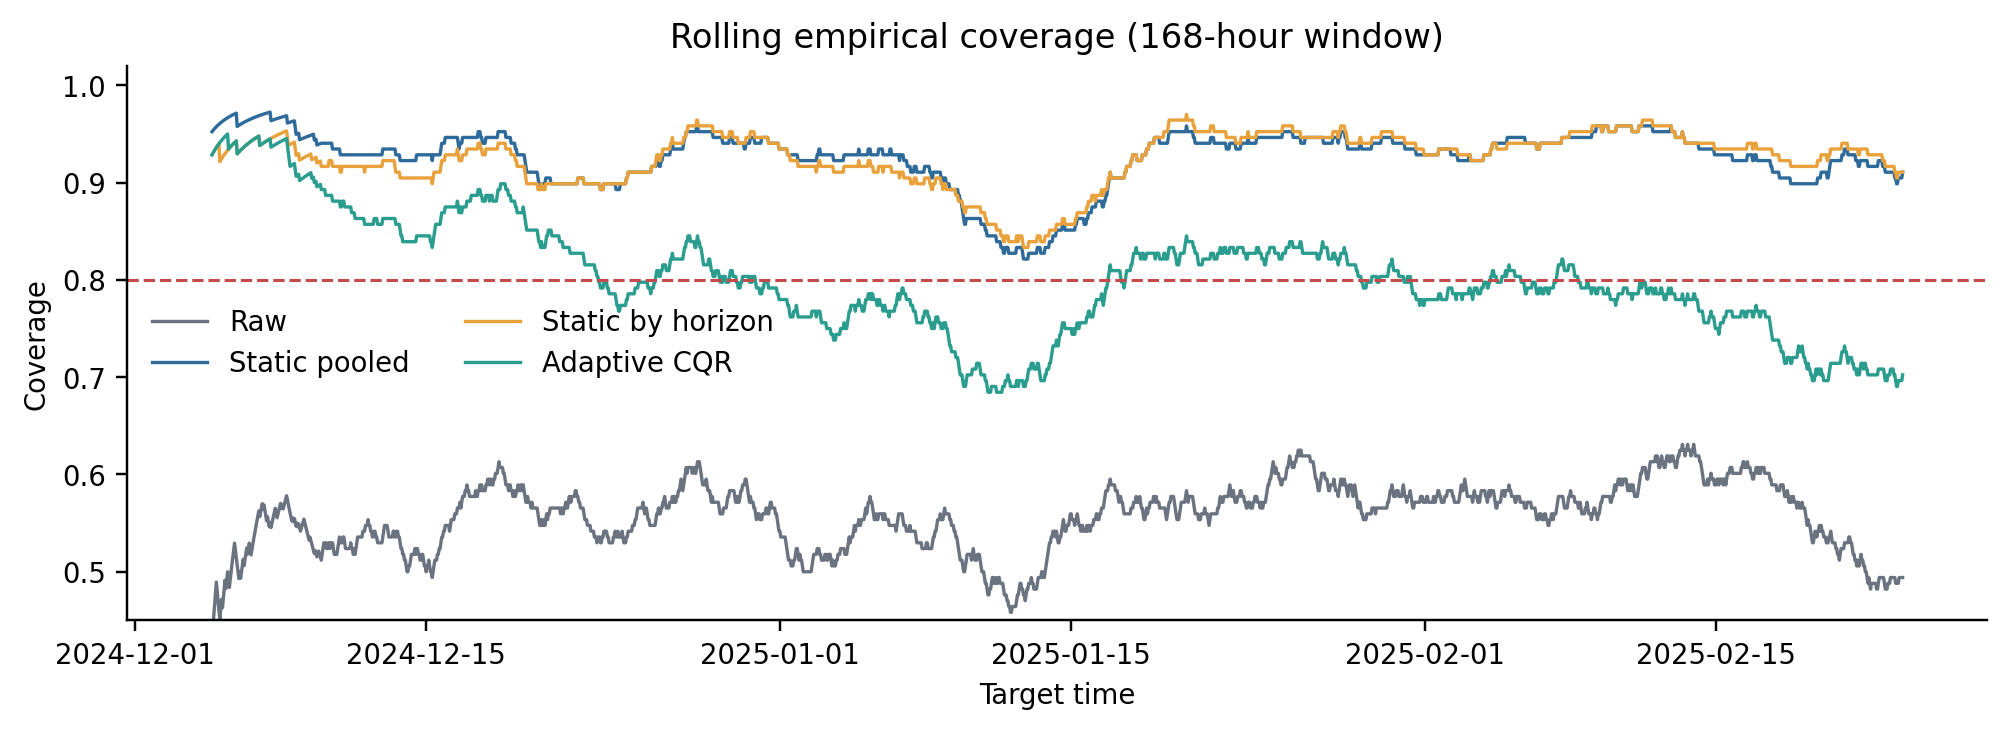
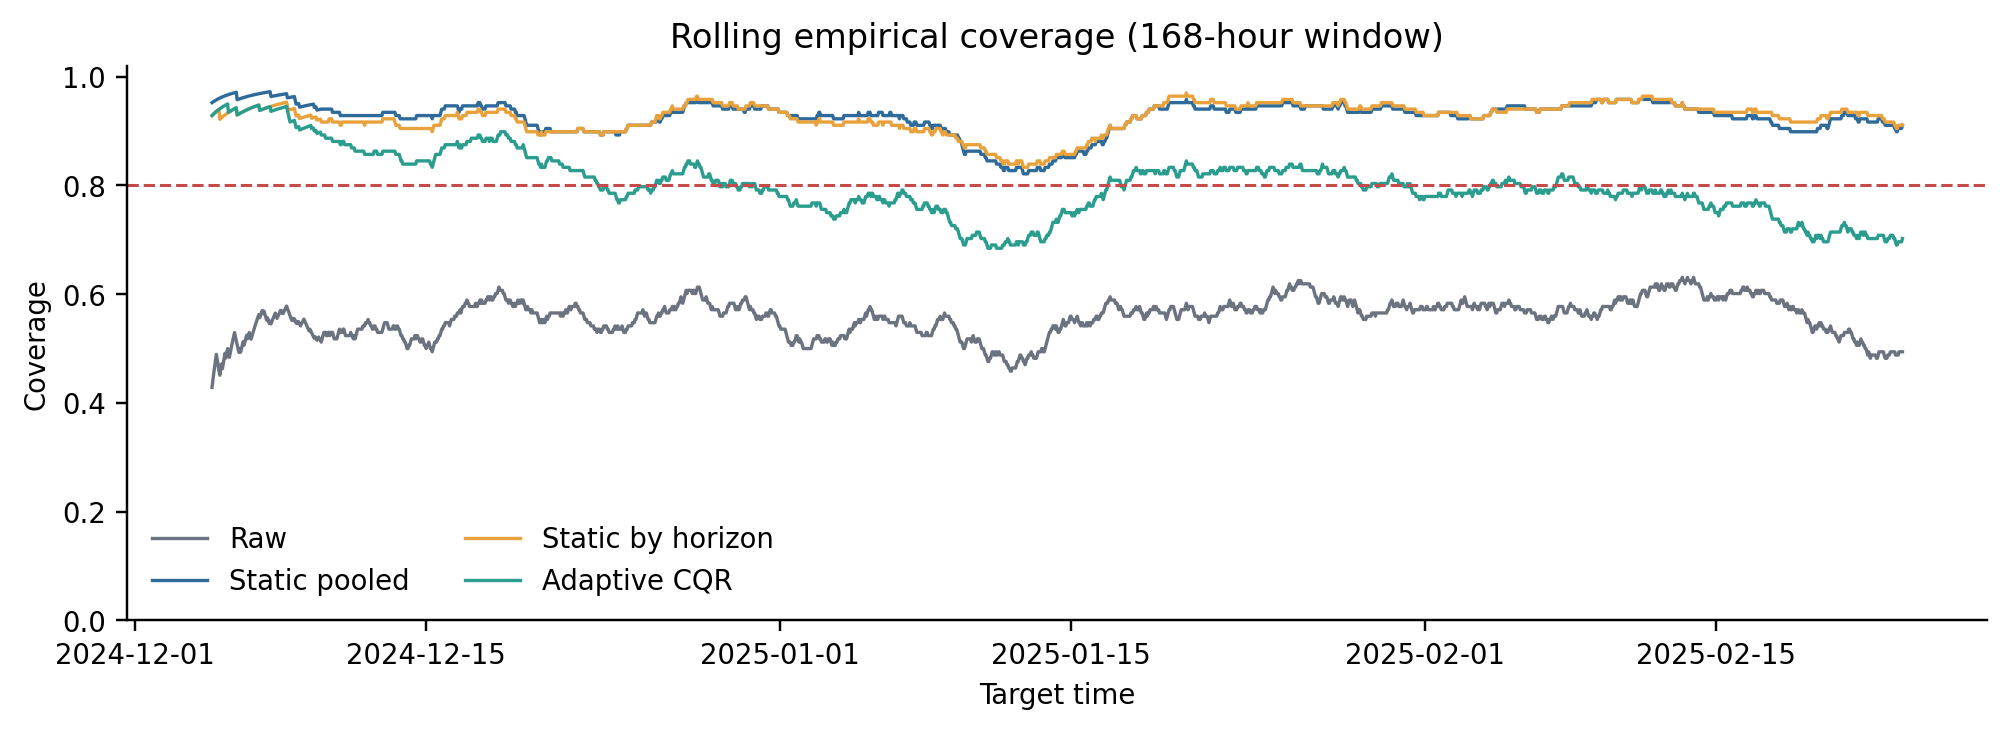
Fix rolling coverage display and redact local workspace paths

diff --git a/tests/test_verification.py b/tests/test_verification.py
@@ -145,6 +145,28 @@ class TestConfigAndSmoke(unittest.TestCase):
             self.assertEqual(float(figure.axes[0].lines[-1].get_ydata()[0]), .9)
             plt.close(figure)
 
+    def test_rolling_coverage_shows_baseline_low_point_and_all_finite_curves(self) -> None:
+        frame = pd.read_csv(ROOT / "corrected_v110/baseline/outputs/forecast_quantiles_test.csv")
+        with patch("energy_forecasting.experiment._save_figure") as save:
+            _plot_rolling_coverage(frame, 168, Path("unused.png"))
+            figure = save.call_args.args[0]
+            try:
+                axis = figure.axes[0]
+                lower, upper = axis.get_ylim()
+                self.assertEqual(lower, 0.0)
+                self.assertGreaterEqual(upper, 1.0)
+                self.assertEqual(len(axis.lines), 5)  # Four methods and the target line.
+                raw_values = np.asarray(axis.lines[0].get_ydata(), dtype=float)
+                self.assertAlmostEqual(float(np.nanmin(raw_values)), 3.0 / 7.0)
+                self.assertEqual(int(np.sum(raw_values < .45)), 2)
+                for line in axis.lines:
+                    values = np.asarray(line.get_ydata(), dtype=float)
+                    finite = values[np.isfinite(values)]
+                    self.assertGreater(len(finite), 0, line.get_label())
+                    self.assertTrue(np.all((finite >= lower) & (finite <= upper)), line.get_label())
+            finally:
+                plt.close(figure)
+
     def test_invalid_quantile_and_split_settings_fail_before_fitting(self) -> None:
         base = smoke_config()
         variants = []

diff --git a/src/energy_forecasting/experiment.py b/src/energy_forecasting/experiment.py
@@ -442,7 +442,7 @@ def _plot_rolling_coverage(test: pd.DataFrame, window: int, path: Path, *, lower
         curve = rolling_coverage(frame["price_eur_mwh"], frame[low], frame[high], window)
         ax.plot(pd.to_datetime(frame["target_time"]).dt.tz_localize(None), curve, lw=1.1, label=label, color=color)
     ax.axhline(target_coverage, color=COLORS["red"], ls="--", lw=1)
-    ax.set(title=f"Rolling empirical coverage ({window}-hour window)", ylabel="Coverage", xlabel="Target time", ylim=(0.45, 1.02))
+    ax.set(title=f"Rolling empirical coverage ({window}-hour window)", ylabel="Coverage", xlabel="Target time", ylim=(0.0, 1.02))
     ax.legend(ncol=2)
     _save_figure(fig, path)
 

diff --git a/README.md b/README.md
@@ -39,7 +39,7 @@ scores than gamma=.015. Feedback produces narrower intervals with coverage neare
 comparison is a comparison of combined wrappers, not proof of an alpha-feedback
 benefit. Original reference outputs and the downstream P2 forecast remain unchanged.
 
-The current local suite has 27 passing tests, including a real-model nondefault
+The current local suite has 28 passing tests, including a real-model nondefault
 q05/q95, 90%-target pipeline smoke, future-information perturbations, fixed-alpha
 rolling behavior and output protection. A lightweight workflow is configured for
 Ubuntu/Windows with Python 3.11/3.13; this local update does not itself establish
@@ -74,7 +74,7 @@ python scripts/run_seed_check.py --seed 20260819 --output-root local_runs/v110_s
 Scripts explicitly put this checkout's `src` first on the import path, including
 when an existing editable installation points elsewhere. A run manifest records
 software versions, config, data fingerprint, version and execution context.
-The 18 October reference suite had 16 tests; the expanded current suite has 27.
+The 18 October reference suite had 16 tests; the expanded current suite has 28.
 Use current test output for later runs. Do not overwrite preserved historical records.
 
 Every experiment command now requires a dedicated `--output-root`. Nonempty
@@ -107,7 +107,9 @@ used in CI; full baseline and supplementary model fits are separate local checks
 | `PROJECT_HISTORY.md` | Version timeline and source note |
 
 The existing `corrected_v110/release_verification.json` records its dated source
-snapshot. It is not rewritten after later source changes. The supplementary
+snapshot. Its recorded hashes, dates and numerical values are not refreshed after
+later source changes; only local path prefixes have been redacted as described
+below. The supplementary
 manifest records the new execution snapshot separately; neither hash record
 substitutes for tests or scientific validity.
 
@@ -140,3 +142,18 @@ are a small robustness check, not population inference or proof of superiority.
 Established quantile-regression and conformal methods underpin the project;
 `RELATED_WORK.md` preserves the literature and contribution boundary. See
 [responsible use](RESPONSIBLE_USE.md) for scope and data-use limits.
+
+## Published path redaction and rolling-coverage display
+
+Published logs and metadata use the explicit `<WORKSPACE>` placeholder for the
+original machine-specific workspace prefix. This is a display redaction, not a
+real replacement directory or a claim that the experiments ran elsewhere. Path
+suffixes, recorded dates, source/data hashes and numerical results are retained.
+See [the presentation-update record](PRESENTATION_UPDATE_20261021.md).
+
+The rolling-coverage figure now shows the full 0-1 coverage range, including raw
+coverage below .45. Five corrected reference figures were redrawn from their
+unchanged saved forecasts, without fitting models again. A new live-plot regression
+checks that all finite curve points are visible. The report and earlier logs retain
+their dated 27-test snapshot; the latest suite has 28 tests. This follow-up does not
+claim that a new remote CI run has already passed.

diff --git a/PRESENTATION_UPDATE_20261021.md b/PRESENTATION_UPDATE_20261021.md
@@ -1,0 +1,31 @@
+# Presentation-only follow-up - 21 October 2026
+
+## Local path redaction
+
+Five published text records contained machine-specific absolute workspace paths.
+Their original workspace prefix is now displayed as the explicit `<WORKSPACE>`
+placeholder. The remaining relative suffix and original slash style are retained.
+This placeholder is not a real filesystem location and is not an execution claim.
+
+The affected records are the three corrected reference terminal logs, the release
+verification text log and `corrected_v110/release_verification.json`. Only the path
+prefix changes: original timestamps, software versions, hashes, result values and
+the dated scope of each record are retained. Unredacted originals are backed up
+outside the Git repository and are not part of the public update. New independent
+runs may record their actual local paths again.
+
+## Rolling-coverage chart correction
+
+`_plot_rolling_coverage` previously fixed the lower axis limit at .45. The saved
+baseline raw curve reaches 3/7 (about .428571), leaving two points outside that
+display range. The axis now spans 0-1.02. A regression calls the real plotting
+function and verifies that every finite point in every plotted curve is visible.
+
+Five current `figure_3_rolling_coverage.png` files were redrawn from the unchanged
+saved forecast CSVs for baseline, gamma .030, gamma .050 and seeds 20260818/19.
+No models were refitted, and no forecasts, interval metrics or downstream P2 input
+were changed. Historical and earlier personal-run figures remain untouched. The
+active report does not embed this figure, so neither PDF was regenerated.
+
+The latest suite has 28 tests. Earlier logs and the report's 27-test description
+remain dated evidence of the preceding update, not a claim about this follow-up.

diff --git a/PROJECT_HISTORY.md b/PROJECT_HISTORY.md
@@ -26,6 +26,12 @@ material predates that Git history. The original statement is preserved at
   `corrected_v110/supplementary_20261021/`; prior evidence and P2 input are unchanged.
   The active PDF filename is `report/Haorui_Cai_Forecasting_Report_v110.pdf`.
 
+- **21 October 2026 - presentation follow-up:** redacted local workspace prefixes
+  with an explicit `<WORKSPACE>` placeholder, without changing recorded dates,
+  hashes or numerical results. Expanded the rolling-coverage axis, added a live
+  plot regression (28 tests in total), and redrew five current charts from saved
+  forecasts without refitting. See `PRESENTATION_UPDATE_20261021.md`.
+
 ## Sources
 
 Initial code and reference analyses were supplied. Method sources are credited in
